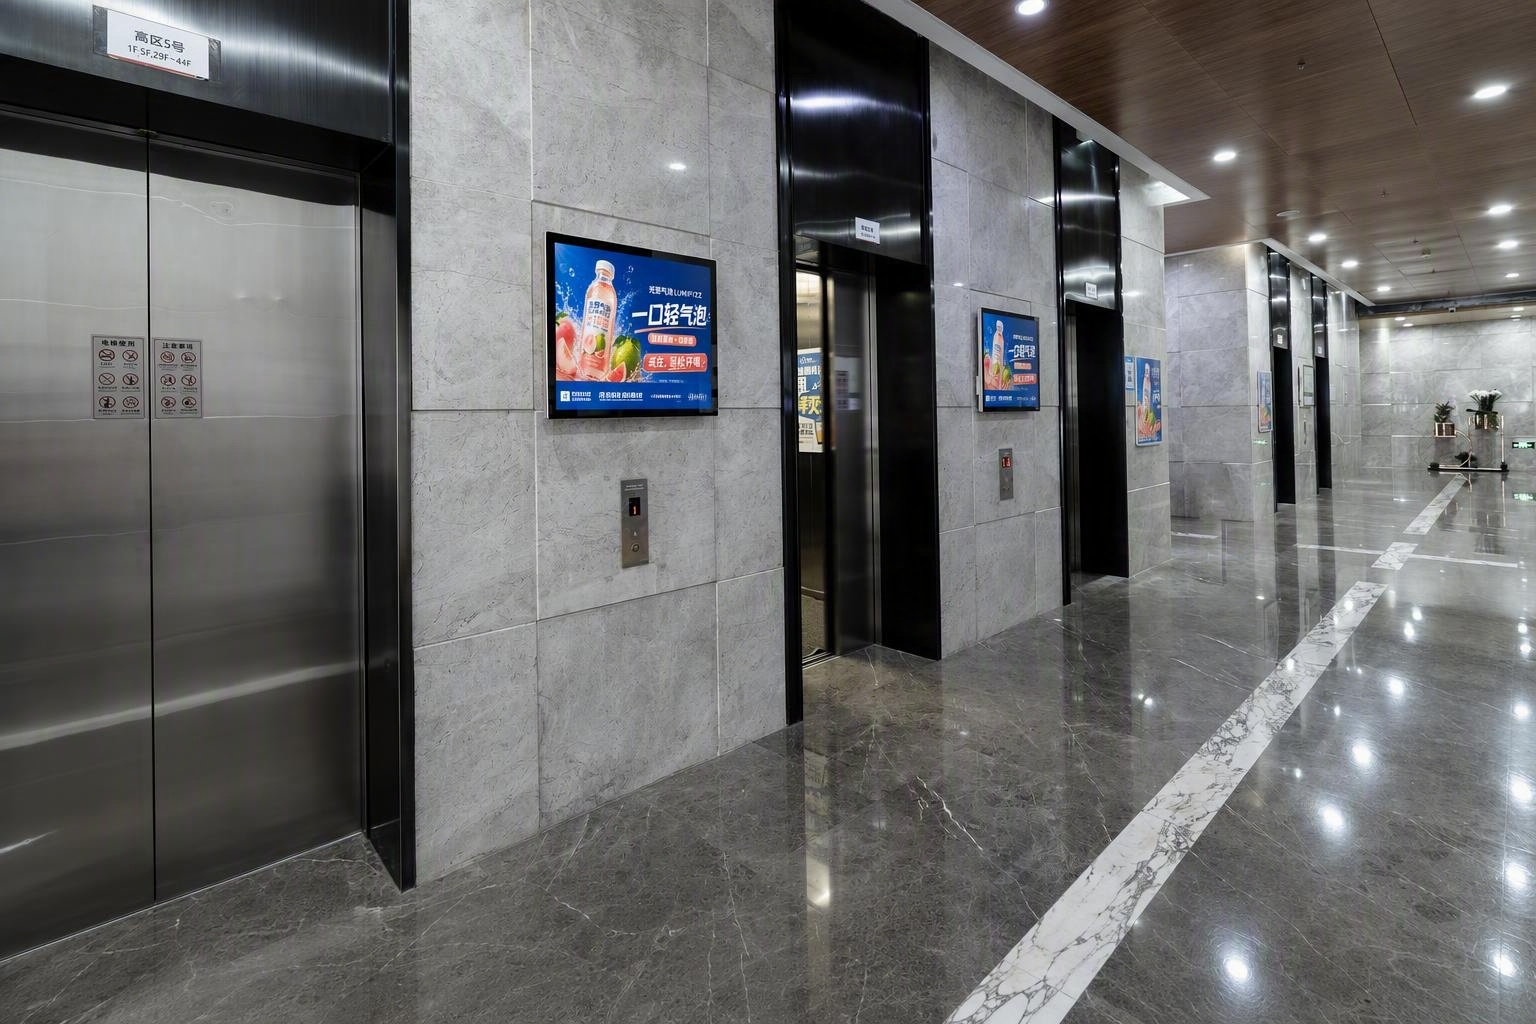
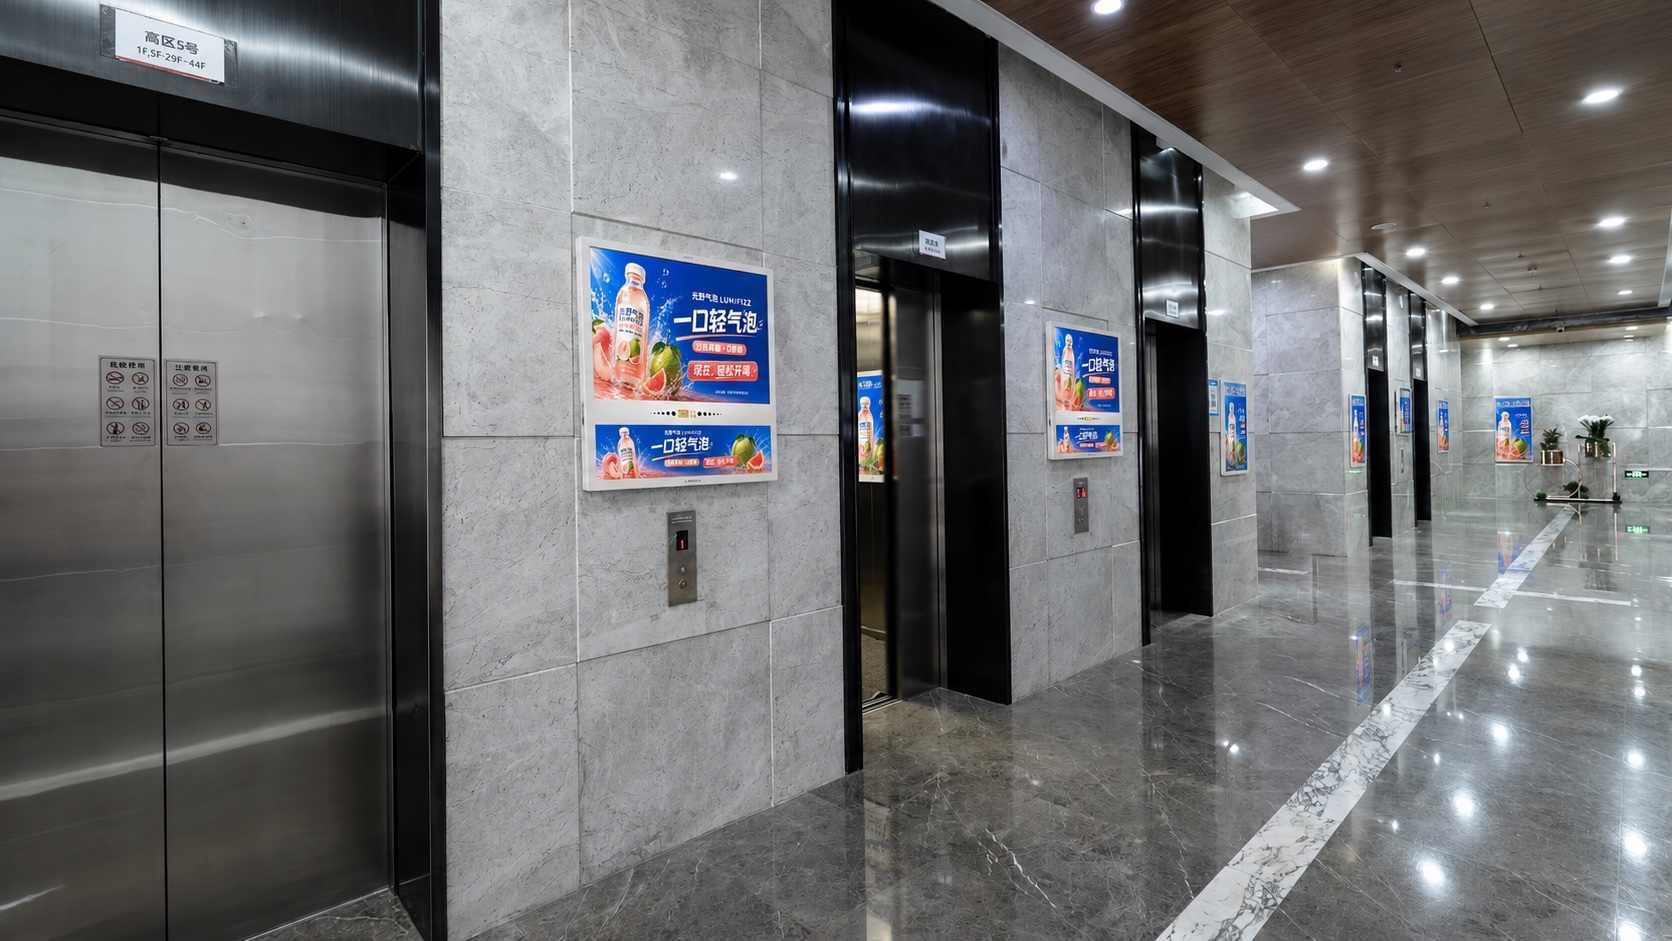
Fix LCD environment dual-screen structure

diff --git a/tests/test_framed_demo_standards.py b/tests/test_framed_demo_standards.py
@@ -51,6 +51,18 @@ class FramedDemoStandardsTest(unittest.TestCase):
         self.assertIn("156 张已分级的远端参考图库", skill)
         self.assertIn("下载通过校验的图片", skill)
         self.assertIn("不得从环境照片裁出设备", skill)
+        self.assertIn("必须通过模型参考融合完成", skill)
+        self.assertIn("不得用贴图修补整台设备", skill)
+
+    def test_lcd_environment_has_three_zone_rejection_gate(self) -> None:
+        skill = (ROOT / "SKILL.md").read_text(encoding="utf-8")
+        visual_rules = (ROOT / "references" / "visual-rules.md").read_text(
+            encoding="utf-8"
+        )
+        self.assertIn("三段式硬件一票否决", skill)
+        self.assertIn("上下屏合并直接判定不合格", skill)
+        self.assertIn("LCD three-zone silhouette", visual_rules)
+        self.assertIn("automatic rejection", visual_rules)
 
 
 if __name__ == "__main__":

diff --git a/SKILL.md b/SKILL.md
@@ -56,9 +56,10 @@ scripts/select_media_references.py --media smart --tier scenario --use-case peop
 
 - 将用户输入归类为：精确屏幕/海报创意、完整设计板、待生成创意，或既有带框/环境图。
 - 将输出归类为：带框产品演示图、无人环境图、带人环境图，或安装修改图。
-- 环境图的真实参考照片是空间、透视、灯光和比例的唯一依据；标准带框图只作为硬件身份参考。最终环境图不得使用平面贴图作为成品。
-- 当真实参考照片已有正确媒介硬件时，优先执行屏幕/海报区域替换；设备边界、安装深度、反射、白框或黑色边框保持不变。
+- 环境图的真实参考照片是空间、透视、灯光和比例的唯一依据；标准带框图同时锁定硬件身份与客户创意。最终环境图必须通过模型参考融合完成，不得平贴整台设备，也不得在输出后补贴屏幕或海报创意。
+- 当真实参考照片已有正确媒介硬件时，仍先制作标准带框图，再把环境图与带框图共同交给受约束的模型编辑；设备边界、安装深度、反射、白框或黑色边框保持不变。
 - LCD 必须是白色横向机身、上方 16:9 主屏、窄下屏以及中部品牌/传感器带。下屏不能变成第二块完整高度的屏幕。
+- LCD 环境图实行三段式硬件一票否决：每台可见设备都必须清楚保留独立 16:9 上屏、白色中部硬件带和独立 16:3 条屏；上下屏合并、方形单屏、缺失中部带或缺失条屏都必须丢弃并从原始环境图重做。
 - 海报框应保持白色或铝色框体与玻璃反光，画面保持纸质印刷感，不能变成发光屏。
 - 智能屏只替换点亮的显示像素；保留黑色机身、边框、传感器、标识、安装深度和反射。
 - 同一楼层内可见的多台 LCD 在同一拍摄时刻必须显示相同的上屏和下屏广告。一次编辑导致硬件、角度或建筑变化时，回退并按设备逐个修改。
@@ -120,12 +121,12 @@ scripts/compose_lcd_tvc_demo.py \
 选择并下载匹配媒介、场景和人物状态的真实参考图后：
 
 1. 锁定相机位置、可见表面、电梯门宽、按钮、扶手、墙面、地面和人物。
-2. 准备与目标媒介比例一致的广告创意和带框标准作为身份参考。
-3. 用图像编辑能力将媒介安装到真实墙面或替换既有展示面。
+2. 使用验证标准框体制作完整带框图，锁定目标媒介硬件与客户创意。
+3. 把真实环境图作为空间权威、带框图作为硬件与创意参考，用图像编辑能力整体融合到固定墙面。
 4. 匹配墙面透视、消失线、局部光色、反射、接触阴影、曝光、清晰度和景深。
 5. 逐项检查媒介类型、框体边界、屏幕比例、按钮可达性和环境尺度。
 
-如果模型改变了非目标设备、媒体类型、建筑结构或人物锚点，丢弃该结果，从原始参考图重新执行目标区域编辑。
+如果模型改变了客户创意、非目标设备、媒体类型、建筑结构或人物锚点，丢弃该结果，从原始环境参考图与已确认带框图重新执行融合；不得后贴整机或屏幕补丁修复。
 
 ## Output Check
 
@@ -133,11 +134,12 @@ scripts/compose_lcd_tvc_demo.py \
 
 - 用户请求的媒介类型和已用的标准框体一致。
 - 带框产品演示图使用完整标准框体，而非环境图裁切或重新生成的外壳。
-- 环境图使用了已下载的真实参考图，且最终媒介具有正确的透视、安装深度、反射和阴影。
+- 环境图使用了已下载的真实参考图和已确认带框图，且最终媒介具有正确的透视、安装深度、反射和阴影；记录模型参考融合方式并确认环境输出后没有后贴图层。
 - LCD 上下屏比例正确，白色机身仍清晰可辨。
+- LCD 环境图中每台可见设备都保留“16:9 上屏—白色中部硬件带—16:3 条屏”的三段式物理轮廓；上下屏合并直接判定不合格。
 - 多 LCD 场景的同层广告播放同步。
 - 海报框保有纸质和玻璃特征；智能屏保有黑色硬件特征。
-- 文字、二维码和极小 Logo 若需生产级精确度，最后以专业透视与光照合成回贴。
+- 环境图必须准确保留品牌、主标题、产品主体和主要广告构图。远景尺度下的极小文字无需逐字可读，二维码无需可扫描；需要生产级精确小字或可扫描二维码时，另交付标准带框图或近景图。最终环境图不得用贴图修补整台设备、屏幕内容、小字或二维码。
 
 ## Package Layout
 

diff --git a/README.md b/README.md
@@ -8,7 +8,7 @@
 
 - 把品牌海报、KV 或视频画面放进正确的分众媒体框体
 - 生成无人、有人、广角或多媒体同层可见的真实环境效果图
-- 保持 LCD 上屏、下屏和中部标识带的正确结构
+- 保持 LCD“16:9 上屏—中部硬件带—16:3 条屏”的三段式物理结构，严禁合屏
 - 保持智能屏的黑色硬件、边框、反射和安装深度
 - 保持海报框的实体框体、玻璃反光和纸质印刷感
 - 制作精确 `16:3` LCD 下屏创意及带框 LCD TVC Demo
@@ -47,8 +47,8 @@ Use $focusmedia-image-gen，把这支 16:9 TVC 做成 32 寸分众 LCD 带框 De
 1. 识别素材类型和目标媒介：精确创意、完整设计板、待生成创意或既有环境图。
 2. 先用标准框体完成带框产品演示图，锁定硬件身份和展示比例。
 3. 从真实参考图库选择相应的空间、视角和人物尺度，环境图以真实照片的透视、灯光和结构为基础。
-4. 仅替换媒体展示面，保留电梯门、按钮、扶手、墙缝、地面、天花、反射和安装深度。
-5. 对 LCD、多人尺度、多台同层 LCD 同播，以及小字和二维码做最终检查。
+4. 将真实环境图与已确认带框图交给 Image 2 整体融合，保留电梯门、按钮、扶手、墙缝、地面、天花、反射和安装深度；环境主图不做后贴修补。
+5. 对 LCD 三段式结构、多人尺度、多台同层 LCD 同播，以及小字和二维码做最终检查；任意 LCD 合成单屏都直接重做。
 
 同层可见的多台 LCD 必须播放相同的上屏和下屏内容。每一轮修改都回到原始真实参考图，合并已确认要求后重新生成。
 
@@ -160,4 +160,4 @@ python3 -m pip install -r requirements.txt
 
 远程参考服务器只提供 GET / HEAD 静态下载，不提供上传、删除、WebDAV 或写入 API。仓库不包含服务器密钥。
 
-生产级小字、Logo 和二维码建议在最终一步通过专业透视与光照合成回贴，以确保内容精确。
+环境主图保留品牌、主标题、产品主体和主要广告构图。需要生产级精确小字或可扫描二维码时，另交付标准带框图或近景图，不在环境主图上后贴修补。

diff --git a/references/visual-rules.md b/references/visual-rules.md
@@ -46,6 +46,7 @@ Keep the media hardware realistic first, then place the supplied poster inside i
 - Do not turn the installation into a giant wall mural, mall lightbox, outdoor billboard, bus stop panel, or retail shelf display.
 - Do not make the elevator cabin or hallway physically too large for the media.
 - Do not make elevator doors narrow or oddly placed to accommodate the screen/frame.
+- Treat the LCD three-zone silhouette as a hard environment-image gate, including at distance: a separate 16:9 upper screen, an opaque white middle hardware/sensor band, and a separate 16:3 lower strip. Any merged single advertising surface, square single screen, missing middle band, or missing lower strip is an automatic rejection.
 - Do not place poster frames on the elevator door wall or put the main cabin button panel on the far back wall.
 - Do not reveal hidden object faces just because they are semantically important. If the camera cannot see the screen, button panel, or poster surface from that side, either omit it or change the camera angle.
 - Do not allow print-production artifacts in mockups: no dashed/dotted guide lines, crop marks, measuring ticks, safety boxes, or dimension annotations on poster frames or screen content.
